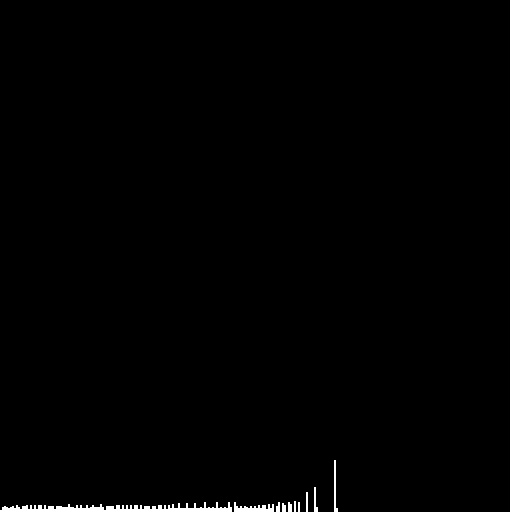
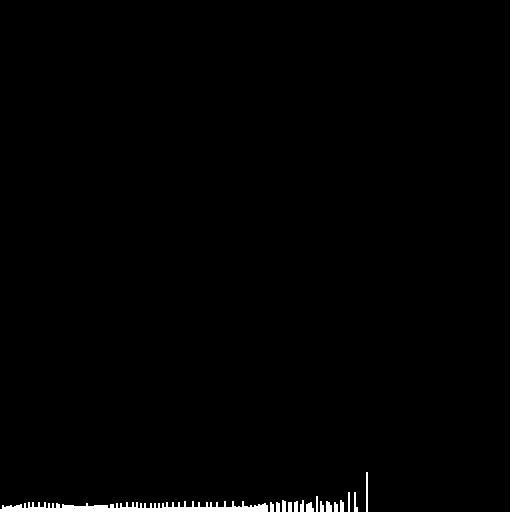
更新

Changed region(s): [[0.0312, 0.9688, 0.4062, 1.0], [0.5625, 0.9062, 0.7188, 1.0], [0.4375, 0.9688, 0.5312, 1.0]]

diff --git a/HW2/HW2 copy.py b/HW2/HW2 copy.py
@@ -1,12 +1,12 @@
 import cv2
 import numpy as np
-
+import matplotlib.pyplot as plt
 def calhis(img):#計算直方圖
-    (h,w) = img.shape#取得圖片的高和寬
+    (w,h) = img.shape#取得圖片的寬和高
     histfrequency = np.zeros(256)#新增計算數量的陣列
     for i in range(w):
         for j in range(h):
-            histfrequency[img[j,i]] += 1#在對應的位置+1
+            histfrequency[img[i,j]] += 1#在對應的位置+1
     return histfrequency
 
 def drowhis(histfrequency,name):#畫直方圖
@@ -17,10 +17,10 @@ def drowhis(histfrequency,name):#畫直方圖
                 hist[j,i] = 0
             else:
                 hist[j,i] = 255
-    cv2.imwrite(name+".jpg",hist)#儲存直方圖
+    cv2.imwrite(name+".jpg",hist)
 
 def Equalization(img,histfrequency):#直方圖均衡
-    (h,w) = img.shape #取得圖片的高和寬
+    (w,h) = img.shape #取得圖片的寬和高
     cor = np.empty((256),dtype=np.uint8) #新增對應的陣列
     sum =0 #新增總和
     for i in range(256):
@@ -28,7 +28,7 @@ def Equalization(img,histfrequency):#直方圖均衡
         cor[i] = round(sum/(w*h)*255,0) #計算對應的值
     for i in range(w):
         for r in range(h):
-            img[i,r] = cor[img[r,i]] #將對應的值填入圖片
+            img[i,r] = cor[img[i,r]] #將對應的值填入圖片
     return img
 
 def graypicture(img,name):#灰階圖片處理
@@ -40,32 +40,23 @@ def graypicture(img,name):#灰階圖片處理
     drowhis(histfrequency,name+"Equalization") #畫直方圖
     cv2.imwrite(name+"Equalizationresult"+".jpg",img)  #儲存圖片
 
-def colorpicture(img,name):#彩色圖片處理(RGB通道)
-    processimg = img.copy() #複製圖片
-    (h,w,c) = processimg.shape #取得圖片的高和寬和通道
+def colorpicture(img,name):#彩色圖片處理
+    (w,h,c) = img.shape #取得圖片的寬和高和通道
     color =["B","G","R"] #通道名稱
     for i in range(c): #對每個通道做處理
-        histfrequency = calhis(processimg[:,:,i]) #計算直方圖
+        histfrequency = calhis(img[:,:,i]) #計算直方圖
         drowhis(histfrequency,name+"original"+color[i]) #畫直方圖
-        processimg[:,:,i] = Equalization(processimg[:,:,i],histfrequency) #直方圖均衡
-        histfrequency = calhis(processimg[:,:,i]) #計算直方圖
+        img[:,:,i] = Equalization(img[:,:,i],histfrequency) #直方圖均衡
+        histfrequency = calhis(img[:,:,i]) #計算直方圖
         drowhis(histfrequency,name+"Equalization"+color[i]) #畫直方圖
-    cv2.imwrite(name+"Equalizationresult"+".jpg",processimg) #儲存圖片(總和)
-
-def hsvpicture(img,name):#彩色圖片處理(HSV通道)
-    img = cv2.cvtColor(img, cv2.COLOR_BGR2HSV) #轉換成HSV圖片
-    histfrequency = calhis(img[:,:,2]) #計算直方圖(V通道)
-    drowhis(histfrequency,name+"original"+"v") #畫直方圖
-    img[:,:,2] = Equalization(img[:,:,2],histfrequency) #直方圖均衡(V通道)
-    histfrequency = calhis(img[:,:,2]) #計算直方圖
-    drowhis(histfrequency,name+"Equalization"+"v") #畫直方圖(V通道)
-    img = cv2.cvtColor(img, cv2.COLOR_HSV2BGR) #轉換成BGR圖片
     cv2.imwrite(name+"Equalizationresult"+".jpg",img) #儲存圖片(總和)
-    
+
 if __name__ == '__main__':
     for i in range(1, 3):
         img = cv2.imread(f"im{i}.jpg") #讀取圖片
-        graypicture(img,f"im{i}gray") #灰階圖片處理
-        colorpicture(img,f"im{i}color") #彩色圖片處理(RGB通道)
-        hsvpicture(img,f"im{i}hsv") #HSV圖片處理
-        
+        result = cv2.equalizeHist(cv2.cvtColor(img, cv2.COLOR_BGR2GRAY))
+        histfrequency = calhis(cv2.cvtColor(img, cv2.COLOR_BGR2GRAY)) #計算直方圖
+        img = Equalization(cv2.cvtColor(img, cv2.COLOR_BGR2GRAY),histfrequency)
+        print(result-img)
+        # graypicture(img,f"im{i}gray") #灰階圖片處理
+        # colorpicture(img,f"im{i}color") #彩色圖片處理
